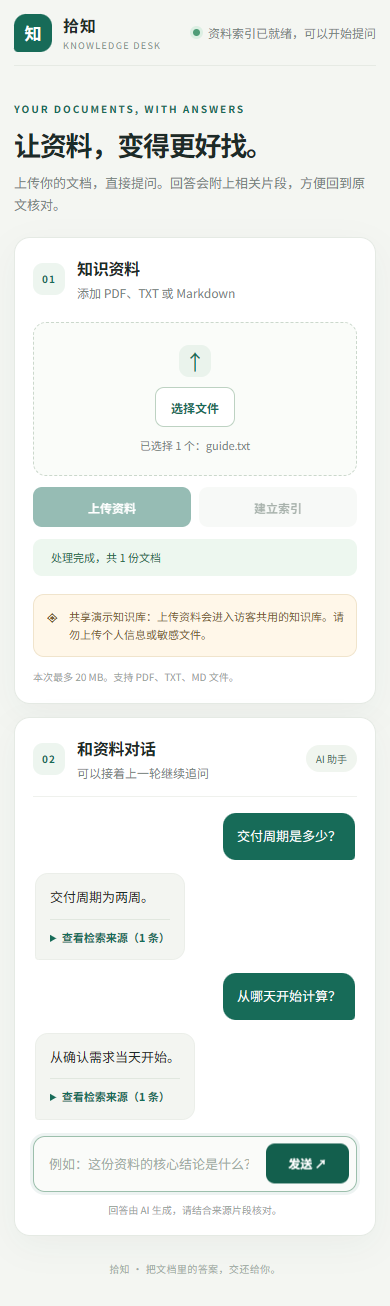
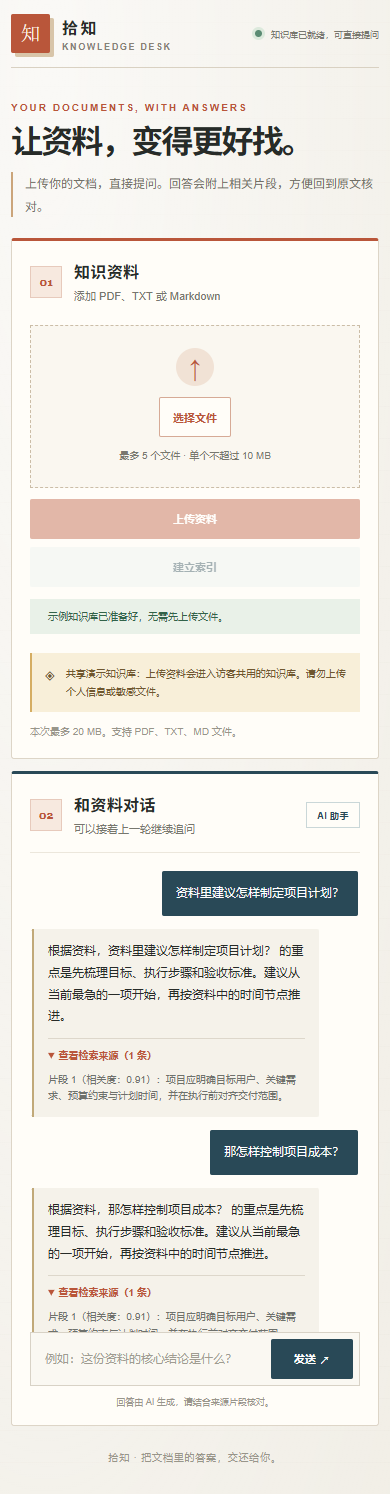
Redesign knowledge desk UI and refresh demo screenshot

diff --git a/static/style.css b/static/style.css
@@ -1,101 +1,120 @@
 :root {
-    color-scheme: light;
-    --ink: #1c2b28;
-    --muted: #78847e;
-    --line: #e5eae4;
-    --paper: #fff;
-    --canvas: #f4f6f2;
-    --green: #176b58;
-    --green-deep: #105543;
-    --green-pale: #edf5ef;
-    --amber: #fff7e9;
-    font-family: "Noto Sans SC", "PingFang SC", "Microsoft YaHei", -apple-system, BlinkMacSystemFont, "Segoe UI", sans-serif;
+  color-scheme: light;
+  --ink: #272b28;
+  --muted: #77776e;
+  --line: #ddd5c7;
+  --paper: #fffdf8;
+  --canvas: #f1eee6;
+  --rust: #b9563a;
+  --rust-dark: #93422d;
+  --rust-pale: #f7e9df;
+  --blue: #294957;
+  --blue-pale: #eaf0ef;
+  --amber: #f8efd9;
+  font-family: "Noto Sans SC", "Songti SC", "Microsoft YaHei", Georgia, serif;
 }
-
 * { box-sizing: border-box; }
-body { margin: 0; min-height: 100vh; background: var(--canvas); color: var(--ink); -webkit-font-smoothing: antialiased; }
-button, input { font: inherit; }
-button:focus-visible, input:focus-visible, a:focus-visible { outline: 3px solid #89b7a7; outline-offset: 3px; }
-.shell { width: min(1120px, 100% - 48px); margin: 0 auto; }
-.topbar { height: 76px; display: flex; align-items: center; justify-content: space-between; border-bottom: 1px solid #e6eae4; }
-.brand { color: inherit; text-decoration: none; display: flex; align-items: center; gap: 11px; }
-.brand-mark { width: 38px; height: 38px; display: grid; place-items: center; background: var(--green); color: white; border-radius: 12px 12px 12px 4px; font-weight: 700; font-size: 17px; }
-.brand strong, .brand small { display: block; }
-.brand strong { font-size: 16px; letter-spacing: .04em; }
-.brand small { color: #85918b; font-size: 9px; letter-spacing: .15em; margin-top: 2px; }
-.connection { color: var(--muted); font-size: 12px; display: flex; align-items: center; gap: 8px; }
-.connection-dot { width: 7px; height: 7px; border-radius: 50%; background: #d4a04f; box-shadow: 0 0 0 3px #f5ead7; }
-.connection.ready .connection-dot { background: #4f9d78; box-shadow: 0 0 0 3px #dcefe3; }
-.connection.error .connection-dot { background: #bd6358; box-shadow: 0 0 0 3px #f7e4e1; }
-.intro { padding: 49px 0 29px; }
-.eyebrow { color: var(--green); font-size: 10px; letter-spacing: .2em; font-weight: 700; margin: 0 0 11px; }
-.intro h1 { font-size: clamp(27px, 4vw, 38px); letter-spacing: -.045em; margin: 0; line-height: 1.3; }
-.intro > p:last-child { color: var(--muted); font-size: 14px; margin: 10px 0 0; }
-.workspace { display: grid; grid-template-columns: 330px minmax(0, 1fr); gap: 18px; align-items: start; }
-.card { background: var(--paper); border: 1px solid var(--line); border-radius: 16px; box-shadow: 0 10px 34px rgba(34, 54, 43, .045); }
-.library-card { padding: 23px; }
-.chat-card { padding: 23px; min-height: 540px; display: flex; flex-direction: column; }
-.section-heading { display: flex; align-items: center; gap: 12px; margin-bottom: 21px; }
-.section-heading h2 { margin: 0; font-size: 16px; letter-spacing: -.02em; }
-.section-heading p { margin: 4px 0 0; color: var(--muted); font-size: 12px; }
-.step { color: var(--green); font-size: 10px; font-weight: 700; letter-spacing: .12em; background: var(--green-pale); width: 32px; height: 32px; display: grid; place-items: center; border-radius: 10px; flex: none; }
-.upload-area { min-height: 154px; border: 1px dashed #cbd8cc; background: #fafcf9; border-radius: 13px; display: flex; flex-direction: column; align-items: center; justify-content: center; gap: 10px; padding: 15px; text-align: center; }
-.upload-icon { width: 32px; height: 32px; border-radius: 10px; display: grid; place-items: center; font-size: 21px; color: var(--green); background: #eaf3ec; }
-.file-list { max-width: 100%; color: var(--muted); font-size: 11px; overflow-wrap: anywhere; line-height: 1.5; }
-.btn { border: 0; border-radius: 9px; min-height: 40px; padding: 0 15px; cursor: pointer; font-size: 12px; font-weight: 600; transition: transform .15s ease, background .15s ease, opacity .15s ease; }
-.btn:hover:not(:disabled) { transform: translateY(-1px); }
-.btn:disabled { opacity: .45; cursor: not-allowed; }
-.btn-outline { color: var(--green); border: 1px solid #bdd2c2; background: white; }
-.btn-row { display: grid; grid-template-columns: 1fr 1fr; gap: 8px; margin-top: 11px; }
-.btn-primary { color: white; background: var(--green); }
-.btn-primary:hover:not(:disabled), .btn-ask:hover:not(:disabled) { background: var(--green-deep); }
-.btn-secondary { color: #3e5548; background: #eef2ed; }
-.privacy-note { display: flex; gap: 10px; padding: 12px; margin-top: 18px; color: #785f35; background: var(--amber); border: 1px solid #f0e4cc; border-radius: 11px; }
-.privacy-note > span { font-size: 15px; line-height: 1.35; }
-.privacy-note p { margin: 0; font-size: 11px; line-height: 1.7; }
-.limit-note { margin-top: 12px; color: #9ba49e; font-size: 10px; line-height: 1.6; }
-.status-bar { display: flex; gap: 7px; padding: 10px 11px; margin-top: 12px; border-radius: 9px; font-size: 11px; line-height: 1.5; }
-.status-bar.success { color: #286a4d; background: #edf7ef; }
-.status-bar.error { color: #9a4037; background: #fff0ee; }
-.status-bar.processing { color: #866326; background: #fff7e9; }
-.hidden { display: none !important; }
-.chat-heading { margin-bottom: 15px; }
-.ai-badge { margin-left: auto; background: #f0f5ef; color: #50725f; border-radius: 999px; padding: 6px 10px; font-size: 10px; white-space: nowrap; }
-.chat-box { flex: 1; min-height: 320px; max-height: 470px; overflow-y: auto; display: flex; flex-direction: column; gap: 13px; padding: 16px 2px; border-top: 1px solid #eff1ed; }
-.chat-empty { margin: auto; text-align: center; color: var(--muted); padding: 24px 10px; }
-.empty-mark { width: 48px; height: 48px; margin: 0 auto 13px; display: grid; place-items: center; border-radius: 16px; color: var(--green); background: var(--green-pale); font-size: 19px; font-weight: 600; }
-.chat-empty strong { display: block; color: var(--ink); font-size: 14px; font-weight: 600; }
-.chat-empty p { font-size: 12px; line-height: 1.6; margin: 7px 0 0; }
-.msg { max-width: 88%; padding: 12px 14px; border-radius: 13px; font-size: 13px; line-height: 1.75; white-space: pre-wrap; overflow-wrap: anywhere; }
-.msg.question { align-self: flex-end; background: var(--green); color: white; border-bottom-right-radius: 4px; }
-.msg.answer { align-self: flex-start; background: #f3f5f1; border: 1px solid #ebeee9; border-bottom-left-radius: 4px; }
-.msg.error { align-self: flex-start; color: #9a4037; background: #fff0ee; }
-.sources { margin-top: 10px; padding-top: 8px; border-top: 1px solid #e1e7df; color: #65746b; font-size: 11px; }
-.sources summary { cursor: pointer; color: var(--green); font-weight: 600; }
-.sources p { line-height: 1.6; margin: 7px 0 0; }
-.input-row { display: flex; gap: 9px; padding: 7px; border: 1px solid #dfe6de; border-radius: 12px; background: #fafbf9; }
-.input-row:focus-within { border-color: #9cbfac; box-shadow: 0 0 0 3px rgba(23, 107, 88, .08); }
-.input-row input { min-width: 0; flex: 1; border: 0; outline: 0; background: transparent; padding: 0 8px; font-size: 13px; color: var(--ink); }
-.input-row input::placeholder { color: #a0aaa3; }
-.btn-ask { color: white; background: var(--green); min-width: 83px; }
-.chat-footnote { color: #9aa39d; text-align: center; font-size: 10px; margin: 10px 0 0; }
-footer { color: #a0aaa3; text-align: center; font-size: 10px; padding: 25px 0 30px; letter-spacing: .04em; }
-
-@media (max-width: 760px) {
-    .shell { width: min(100% - 28px, 560px); }
-    .topbar { height: 66px; }
-    .intro { padding: 35px 0 21px; }
-    .intro > p:last-child { line-height: 1.7; font-size: 13px; }
-    .workspace { grid-template-columns: 1fr; gap: 13px; }
-    .library-card, .chat-card { padding: 18px; }
-    .chat-card { min-height: 490px; }
-    .chat-box { min-height: 265px; }
+body {
+  min-height: 100vh; margin: 0; color: var(--ink); -webkit-font-smoothing: antialiased;
+  background:
+    radial-gradient(ellipse at 12% 4%, #ffffffa8, transparent 32rem),
+    repeating-linear-gradient(0deg, transparent 0 31px, #7d715008 32px),
+    var(--canvas);
 }
-
-@media (max-width: 380px) {
-    .shell { width: calc(100% - 20px); }
-    .library-card, .chat-card { padding: 15px; }
-    .connection { font-size: 10px; }
-    .btn-row { grid-template-columns: 1fr; }
-    .chat-box { min-height: 230px; }
+button, input { font: inherit; }
+button:focus-visible, input:focus-visible, a:focus-visible { outline: 3px solid #d58d71; outline-offset: 3px; }
+.shell { width: min(1160px, calc(100% - 56px)); margin: 0 auto; }
+.topbar { height: 78px; display: flex; align-items: center; justify-content: space-between; border-bottom: 1px solid #d9d1c2; }
+.brand { display: flex; align-items: center; gap: 12px; color: inherit; text-decoration: none; }
+.brand-mark {
+  width: 39px; height: 39px; display: grid; place-items: center; color: #fffaf0;
+  background: var(--rust); border-radius: 2px; font-family: "Songti SC", Georgia, serif; font-size: 20px;
+  box-shadow: 4px 4px 0 #d8c5a9;
+}
+.brand strong, .brand small { display: block; }
+.brand strong { font-size: 16px; letter-spacing: .16em; }
+.brand small { margin-top: 3px; color: #878276; font: 700 9px/1.2 Arial, sans-serif; letter-spacing: .18em; }
+.connection { display: flex; align-items: center; gap: 9px; color: var(--muted); font: 11px Arial, sans-serif; }
+.connection-dot { width: 7px; height: 7px; border-radius: 50%; background: #c79b52; box-shadow: 0 0 0 3px #efe2c7; }
+.connection.ready .connection-dot { background: #5b8b73; box-shadow: 0 0 0 3px #dce9dc; }
+.connection.error .connection-dot { background: #bb5b47; box-shadow: 0 0 0 3px #f4ded7; }
+.intro {
+  display: grid; grid-template-columns: minmax(0, 1fr) minmax(230px, 340px);
+  grid-template-rows: auto auto; align-items: end; column-gap: 52px; padding: 50px 0 31px;
+}
+.eyebrow { grid-column: 1; grid-row: 1; margin: 0 0 11px; color: var(--rust); font: 700 10px Arial, sans-serif; letter-spacing: .2em; }
+.intro h1 { grid-column: 1; grid-row: 2; margin: 0; font-size: clamp(30px, 4.2vw, 46px); font-weight: 600; letter-spacing: -.06em; line-height: 1.18; }
+.intro > p:last-child {
+  grid-column: 2; grid-row: 1 / 3; margin: 0 0 4px; padding: 3px 0 3px 18px;
+  border-left: 2px solid #cba57b; color: #716f66; font-size: 13px; line-height: 1.9;
+}
+.workspace { display: grid; grid-template-columns: 345px minmax(0, 1fr); gap: 16px; align-items: stretch; }
+.card { min-width: 0; border: 1px solid var(--line); border-radius: 3px; background: var(--paper); }
+.library-card { padding: 23px; border-top: 3px solid var(--rust); }
+.chat-card { min-height: 552px; display: flex; flex-direction: column; padding: 23px; border-top: 3px solid var(--blue); }
+.section-heading { display: flex; align-items: center; gap: 12px; margin-bottom: 20px; }
+.section-heading h2 { margin: 0; font-size: 16px; letter-spacing: .02em; }
+.section-heading p { margin: 5px 0 0; color: var(--muted); font: 11px/1.5 Arial, "Microsoft YaHei", sans-serif; }
+.step { display: grid; place-items: center; width: 32px; height: 32px; flex: none; color: var(--rust); background: var(--rust-pale); font: 700 11px Georgia, serif; border: 1px solid #e7cabc; }
+.upload-area {
+  min-height: 163px; display: flex; flex-direction: column; align-items: center; justify-content: center; gap: 11px;
+  padding: 16px; text-align: center; border: 1px dashed #cbbda7; background: #faf7f0;
+}
+.upload-icon { width: 38px; height: 38px; display: grid; place-items: center; color: var(--rust); background: #f1e2d5; border-radius: 50%; font: 25px/1 Arial, sans-serif; }
+.file-list { max-width: 100%; color: var(--muted); font: 10px/1.6 Arial, "Microsoft YaHei", sans-serif; overflow-wrap: anywhere; }
+.btn { min-height: 40px; padding: 0 13px; border: 1px solid transparent; border-radius: 2px; cursor: pointer; font: 700 11px Arial, "Microsoft YaHei", sans-serif; transition: .15s ease; }
+.btn:hover:not(:disabled) { transform: translateY(-1px); }
+.btn:disabled { opacity: .42; cursor: not-allowed; }
+.btn-outline { color: var(--rust); border-color: #d6aa96; background: var(--paper); }
+.btn-row { display: grid; grid-template-columns: 1fr 1fr; gap: 8px; margin-top: 11px; }
+.btn-primary { color: white; background: var(--rust); }
+.btn-primary:hover:not(:disabled), .btn-ask:hover:not(:disabled) { background: var(--rust-dark); }
+.btn-secondary { color: var(--blue); background: var(--blue-pale); }
+.privacy-note { display: flex; gap: 10px; padding: 12px; margin-top: 19px; color: #70572f; background: var(--amber); border-left: 2px solid #d5ad63; }
+.privacy-note > span { font-size: 14px; }
+.privacy-note p { margin: 0; font: 10px/1.75 Arial, "Microsoft YaHei", sans-serif; }
+.limit-note { margin-top: 12px; color: #98958a; font: 10px/1.6 Arial, "Microsoft YaHei", sans-serif; }
+.status-bar { display: flex; gap: 7px; padding: 10px 11px; margin-top: 12px; font: 10px/1.55 Arial, "Microsoft YaHei", sans-serif; }
+.status-bar.success { color: #326349; background: #e9f1e8; }
+.status-bar.error { color: #923f33; background: #f9e9e4; }
+.status-bar.processing { color: #7b5c20; background: #fbf1d8; }
+.hidden { display: none !important; }
+.chat-heading { margin-bottom: 14px; }
+.ai-badge { margin-left: auto; padding: 6px 10px; color: var(--blue); border: 1px solid #cad7d8; font: 700 9px Arial, "Microsoft YaHei", sans-serif; letter-spacing: .05em; white-space: nowrap; }
+.chat-box { flex: 1; min-height: 325px; max-height: 480px; display: flex; flex-direction: column; gap: 13px; overflow-y: auto; padding: 18px 2px; border-top: 1px solid #ece7dc; }
+.chat-empty { margin: auto; padding: 24px 10px; color: var(--muted); text-align: center; }
+.empty-mark { width: 50px; height: 50px; display: grid; place-items: center; margin: 0 auto 14px; color: var(--blue); background: #eaf0ef; border: 1px solid #d1dedd; font: 22px "Songti SC", Georgia, serif; }
+.chat-empty strong { display: block; color: var(--ink); font-size: 14px; font-weight: 600; }
+.chat-empty p { margin: 8px 0 0; font: 11px/1.7 Arial, "Microsoft YaHei", sans-serif; }
+.msg { max-width: 88%; padding: 12px 14px; border-radius: 2px; font: 12px/1.8 Arial, "Microsoft YaHei", sans-serif; white-space: pre-wrap; overflow-wrap: anywhere; }
+.msg.question { align-self: flex-end; color: white; background: var(--blue); }
+.msg.answer { align-self: flex-start; background: #f5f2ea; border-left: 2px solid #c1a979; }
+.msg.error { align-self: flex-start; color: #923f33; background: #f9e9e4; }
+.sources { margin-top: 10px; padding-top: 8px; border-top: 1px solid #ddd7cb; color: #6e716c; font-size: 10px; }
+.sources summary { color: var(--rust); font-weight: 700; cursor: pointer; }
+.sources p { margin: 7px 0 0; line-height: 1.65; }
+.input-row { display: flex; gap: 8px; padding: 6px; border: 1px solid #d8d2c6; background: #faf8f2; }
+.input-row:focus-within { border-color: #b77d60; box-shadow: 0 0 0 2px #b9563a14; }
+.input-row input { min-width: 0; flex: 1; padding: 0 8px; color: var(--ink); border: 0; outline: 0; background: transparent; font: 12px Arial, "Microsoft YaHei", sans-serif; }
+.input-row input::placeholder { color: #a09c91; }
+.btn-ask { min-width: 82px; color: white; background: var(--blue); }
+.chat-footnote { margin: 9px 0 0; color: #99958b; text-align: center; font: 9px Arial, "Microsoft YaHei", sans-serif; }
+footer { padding: 24px 0 30px; color: #98958a; text-align: center; font: 10px Arial, "Microsoft YaHei", sans-serif; letter-spacing: .08em; }
+@media (max-width: 760px) {
+  .shell { width: calc(100% - 30px); }
+  .topbar { height: 68px; }
+  .intro { grid-template-columns: 1fr; grid-template-rows: auto auto auto; gap: 0; padding: 34px 0 21px; }
+  .eyebrow { grid-row: 1; margin-bottom: 8px; }
+  .intro h1 { grid-row: 2; font-size: 32px; }
+  .intro > p:last-child { grid-column: 1; grid-row: 3; margin: 13px 0 0; padding: 0 0 0 12px; font-size: 12px; }
+  .workspace { grid-template-columns: 1fr; gap: 12px; }
+  .library-card, .chat-card { padding: 18px; }
+  .chat-card { min-height: 500px; }
+  .chat-box { min-height: 275px; }
+}
+@media (max-width: 390px) {
+  .shell { width: calc(100% - 22px); }
+  .connection { max-width: 150px; font-size: 9px; }
+  .btn-row { grid-template-columns: 1fr; }
+  .chat-box { min-height: 235px; }
 }

diff --git a/static/index.html b/static/index.html
@@ -3,7 +3,7 @@
 <head>
     <meta charset="UTF-8">
     <meta name="viewport" content="width=device-width, initial-scale=1.0">
-    <meta name="theme-color" content="#f4f6f2">
+    <meta name="theme-color" content="#f1eee6">
     <title>拾知 · 知识库问答</title>
     <link rel="stylesheet" href="/static/style.css">
 </head>
